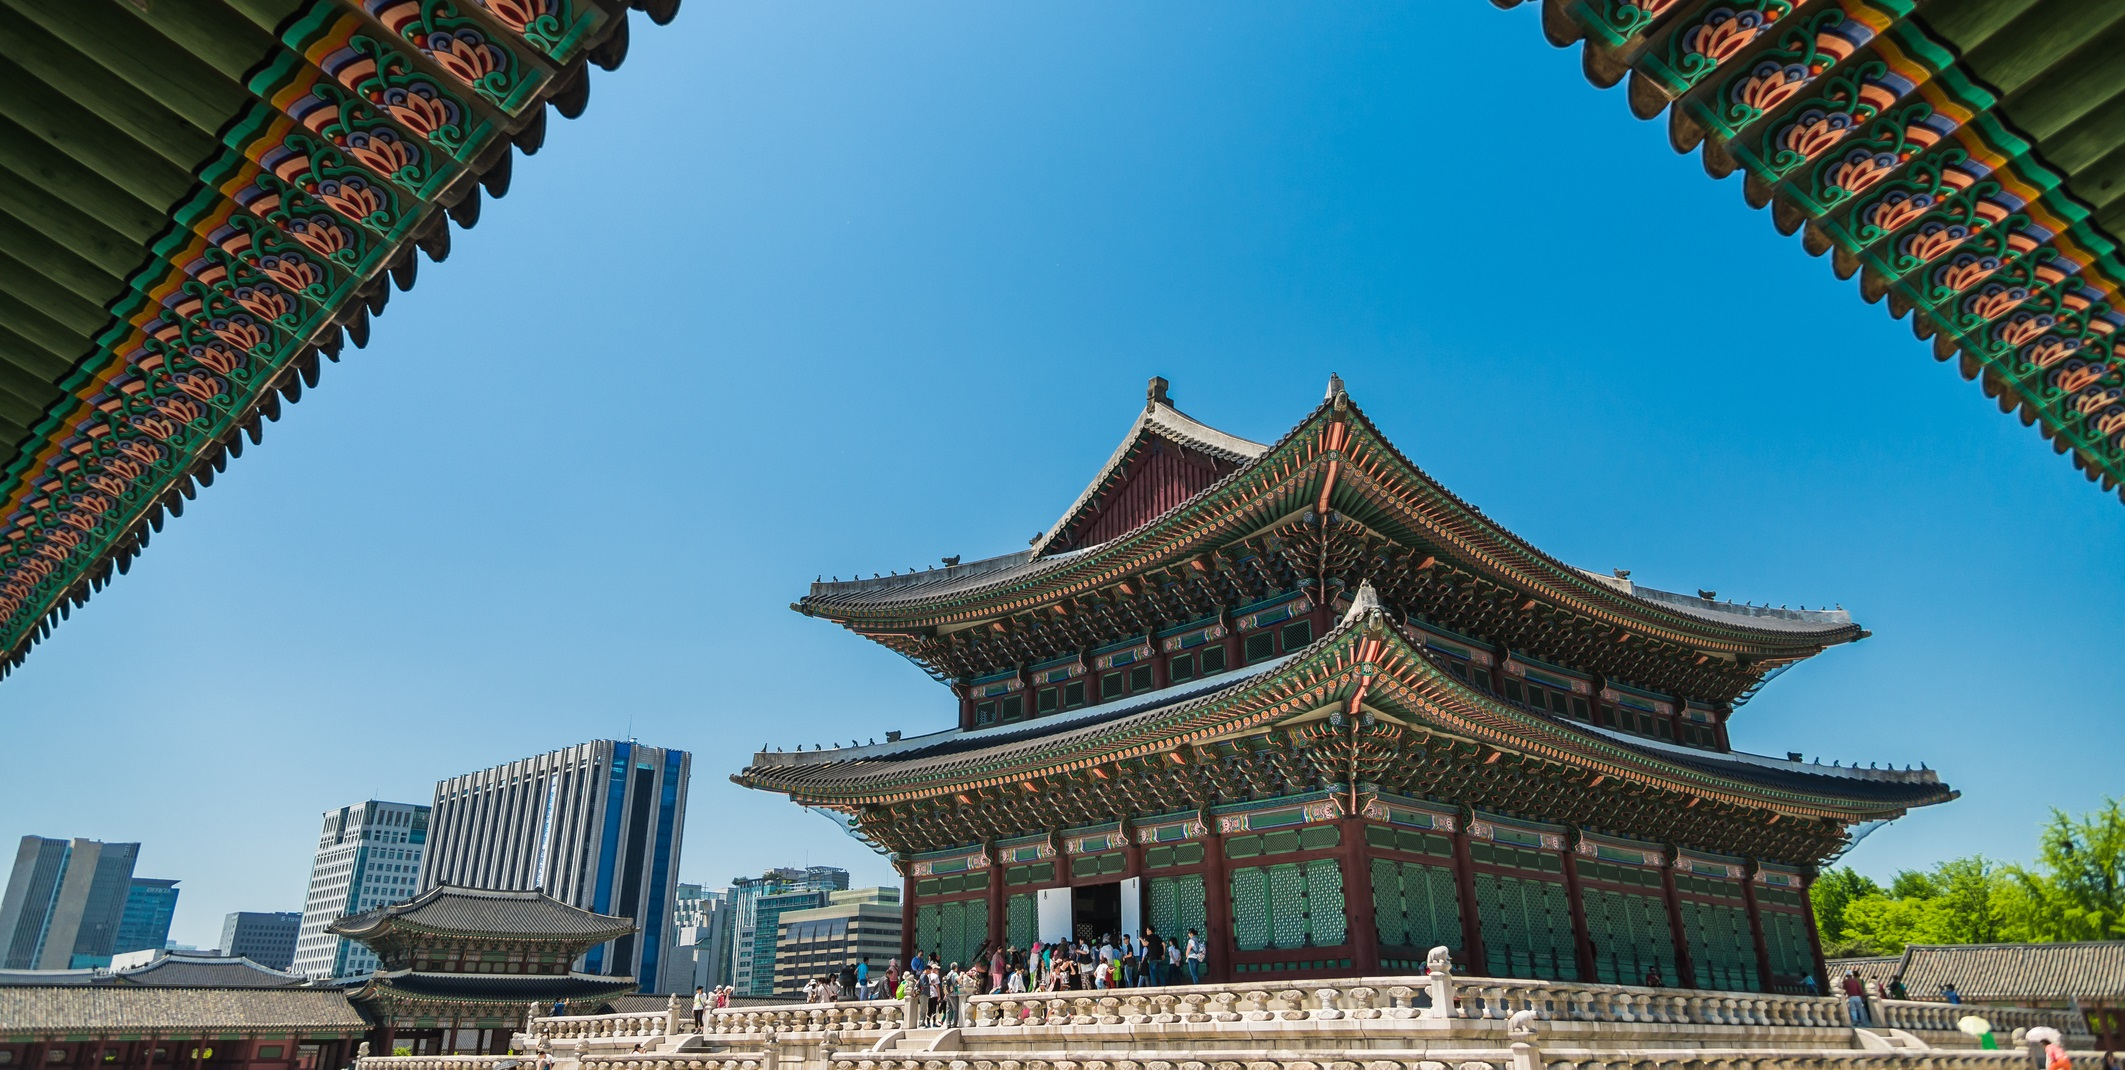
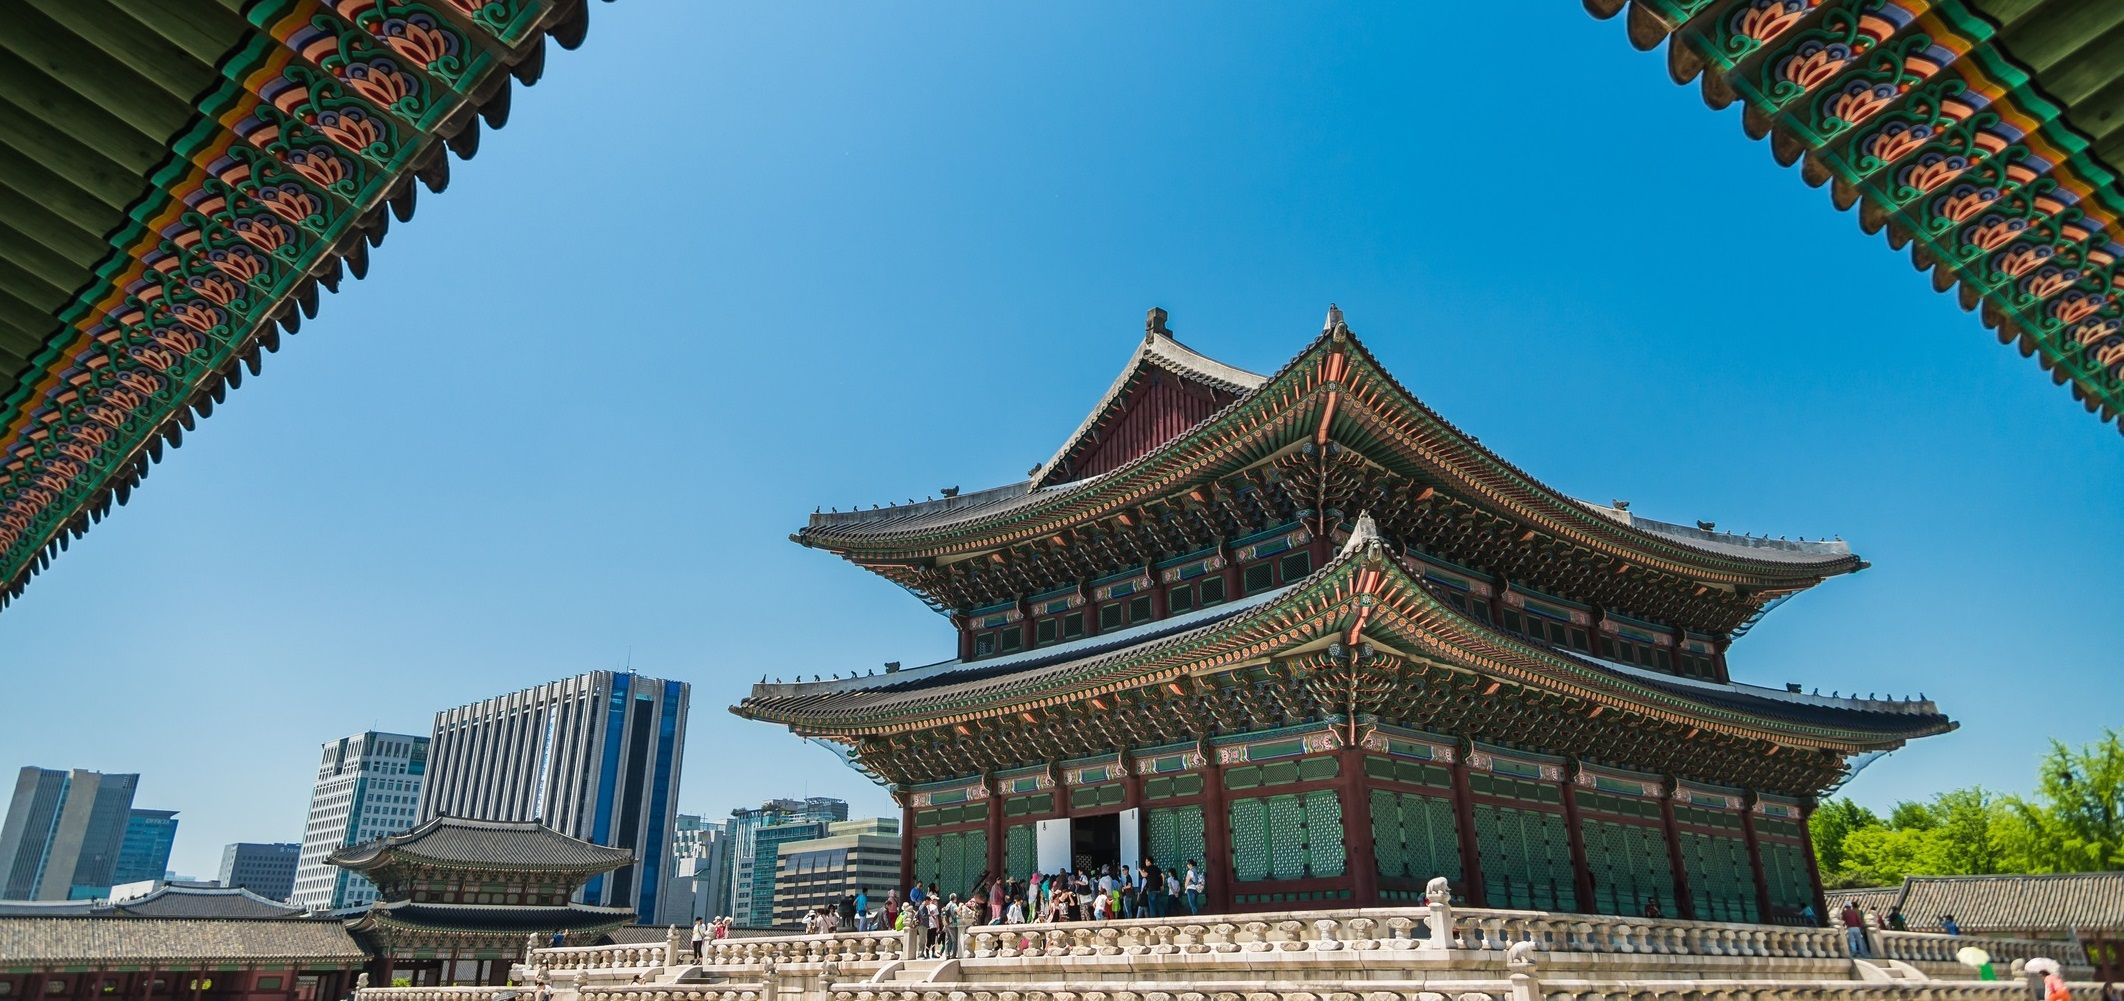
Design: 홈화면 UI 세부조정
Former-commit-id: 55dd31efcbeffd672c4b5afde6139faaf561c232

diff --git a/front-end/src/components/main/Home.module.css b/front-end/src/components/main/Home.module.css
@@ -7,10 +7,10 @@
   flex-direction: column;
   align-items: center;
   justify-content: center;
-  height: 100vh;
+  height: 90vh;
   font-size: calc(10px + 2vmin);
   background-image: url('../../assets/img/mainImg.jpg');
-  background-size: 100% auto;
+  background-size: 100%;
   background-repeat: no-repeat;
   position: relative;
 }
@@ -86,7 +86,7 @@
 }
 
 .home-info {
-  height: 50vh;
+  height: 80vh;
   display: flex;
   justify-content: center;
   position: relative;
@@ -98,7 +98,7 @@
   display: flex;
   justify-content: space-evenly;
   position: relative;
-  top: -150px;
+  top: -100px;
   background-color: none;
 }
 
@@ -106,8 +106,7 @@
   width: 300px;
   height: 600px;
   background-color: #fff;
-  /* border: 3px solid #15A656;
-  border-radius: 10px 10px 0 0; */
+  border-radius: 10px;
 }
 
 .card-upside {

diff --git a/front-end/src/components/main/Home.js b/front-end/src/components/main/Home.js
@@ -83,7 +83,7 @@ const Home = () => {
       <div className={styles["home"]}>
         <div className={styles["home-title"]}>여행지 정보 OPEN API</div>
         <div className={styles["home-subtitle"]}>
-          여행지와 숙소, 음식점을 소개
+          여행지와 숙소, 음식점을 소개합니다
         </div>
         <div className={styles["home-search"]}>
           <div className={styles["home-search-bar"]}>
